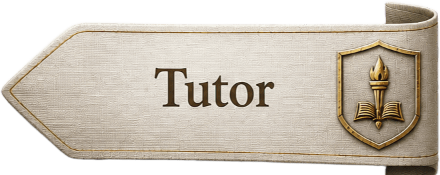
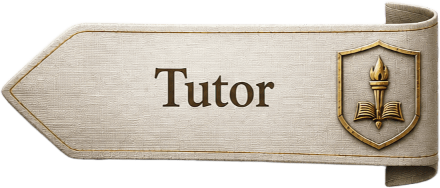
Update staff ribbon images and mappings

diff --git a/site/system/pages/characters.php b/site/system/pages/characters.php
@@ -472,7 +472,7 @@ WHERE killers.death_id = '".$death['id']."' ORDER BY killers.final_hit DESC, kil
 	}
 
 	// Faixa de cargo para personagens da staff (imagens em images/staff/)
-	$staff_banners = array(6 => 'admin', 5 => 'cm', 4 => 'gm', 3 => 'senior', 2 => 'tutor');
+	$staff_banners = array(6 => 'Administrador', 5 => 'Community Manager', 4 => 'Gamemaster', 3 => 'Senior Tutor', 2 => 'Tutor');
 	$staff_banner = null;
 	try {
 		$gid = $player->getGroup()->getId();
@@ -642,5 +642,6 @@ WHERE killers.death_id = '".$death['id']."' ORDER BY killers.final_hit DESC, kil
 
 if(!empty($search_errors))
 	$twig->display('error_box.html.twig', array('errors' => $search_errors));
+
 
 
